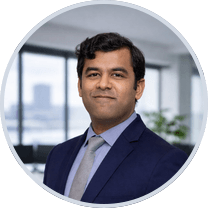
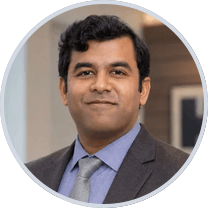
Signature: the whole team, LinkedIn rows, and rules that survive mobile
All four signatures now build. Titles come from our own About page schema
(client/pages/About.tsx), not from a guess.

⛔ Corrected an address I had backwards: samirisetti@onealgorithm.com is
SREENIVAS, not Swapna - verified from a header reading "To: Sreenivas Amirisetti
<samirisetti@onealgorithm.com>". Swapna is swapna@onealgorithm.com, from Louis's
own NMSDC profile reply. Two Amirisettis share a surname and the obvious guess
was the wrong one.

Swapna carries no phone. (610) 298-9069 appears as her contact in that NMSDC
reply, but one form submission is not consent to put a number on every outbound
email. Sahith gets the main line until he has his own extension.

Headshots for the three come from the About page photos, cropped head-and-
shoulders to match Louis's framing - boxes read off a coordinate grid per person,
because content-aware placement framed them wide and small next to his.

The letterhead rule and ledger hairline are now images. A bgcolor <td> carrying
&nbsp; keeps the cell's line-height, which on mobile Outlook rendered the 1px
hairline as a ~25px grey BAND and thickened the navy rule. Same defect that made
the orange accent a block; same fix.

Claude-Session: https://claude.ai/code/session_012A4PPDyDxtufGjAXjSNXTC

diff --git a/shared/signature-template.html b/shared/signature-template.html
@@ -37,7 +37,7 @@
                 </td>
               </tr>
               <tr>
-                <td height="2" bgcolor="#04182b" style="height:2px;line-height:2px;font-size:0;background-color:#04182b;">&nbsp;</td>
+                <td style="font-size:0;line-height:0;"><img src="{{ASSETS}}/rule-navy.png" width="580" height="2" alt="" style="display:block;border:0;outline:none;width:580px;height:2px;"></td>
               </tr>
             </table>
           </td>
@@ -82,7 +82,7 @@
         </tr>
 
         <tr><td height="11" style="height:11px;line-height:11px;font-size:0;">&nbsp;</td></tr>
-        <tr><td height="1" bgcolor="#e3e9f0" style="height:1px;line-height:1px;font-size:0;background-color:#e3e9f0;">&nbsp;</td></tr>
+        <tr><td style="font-size:0;line-height:0;"><img src="{{ASSETS}}/rule-hair.png" width="580" height="1" alt="" style="display:block;border:0;outline:none;width:580px;height:1px;"></td></tr>
         <tr><td height="10" style="height:10px;line-height:10px;font-size:0;">&nbsp;</td></tr>
 
         <!-- capability ledger: text, never seal images. Certifications and identifiers
